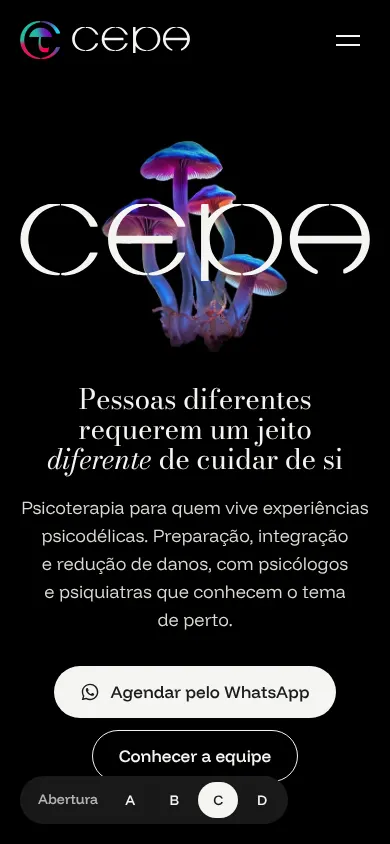
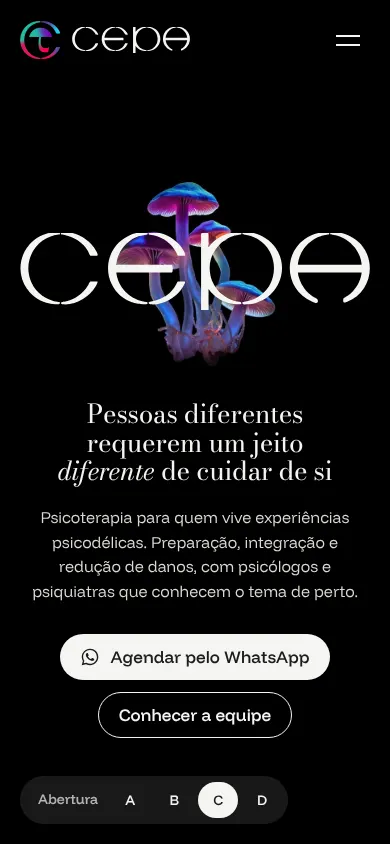
CEPA Vitamina: abertura C cabe na tela e abertura D vira a A em versão clara, com o Sobre escuro
Claude-Session: https://claude.ai/code/session_01FyrvPRAtmUJU3PZbC5bryX

diff --git a/cepa/vitamina/index.html b/cepa/vitamina/index.html
@@ -222,28 +222,30 @@ html:not([data-hero]) .hero-a,html[data-hero=a] .hero-a,html[data-hero=b] .hero-
 .hero-b .lead{color:var(--off)}
 .hero-b .btn-linha:hover{background:rgba(245,245,242,.16)}
 /* C: o key visual do Figma, a palavra cepa sobre os cogumelos */
-.hero-c .wrap{display:flex;flex-direction:column;align-items:center;text-align:center;padding-top:96px;padding-bottom:56px}
-.kv{position:relative;width:min(100%,760px);display:grid;place-items:center;margin-bottom:8px}
-.kv-foto{grid-area:1/1;width:min(44vh,380px);height:auto;aspect-ratio:1;object-fit:contain;-webkit-mask-image:radial-gradient(closest-side,#000 70%,transparent);mask-image:radial-gradient(closest-side,#000 70%,transparent)}
+.hero-c .wrap{display:flex;flex-direction:column;align-items:center;text-align:center;padding-top:88px;padding-bottom:32px}
+.kv{position:relative;width:min(100%,760px,86svh);display:grid;place-items:center;margin-bottom:8px}
+.kv-foto{grid-area:1/1;width:min(35svh,360px);height:auto;aspect-ratio:1;object-fit:contain;-webkit-mask-image:radial-gradient(closest-side,#000 70%,transparent);mask-image:radial-gradient(closest-side,#000 70%,transparent)}
 .kv-palavra{grid-area:1/1;width:100%;height:auto;position:relative;z-index:1}
-.hero-c h1{font-size:clamp(28px,2.6vw,38px);max-width:24ch;margin:0 auto 12px}
-.hero-c .lead{margin:0 auto 24px;max-width:46ch}
+.hero-c h1{font-size:clamp(26px,min(2.6vw,4.4svh),38px);max-width:26ch;margin:4px auto 12px}
+.hero-c .lead{margin:0 auto 22px;max-width:52ch;font-size:clamp(16px,min(1.4vw,2.3svh),19px)}
 .hero-c .acoes{justify-content:center;margin-bottom:0}
-/* D: editorial claro, texto no off-white e o gradiente ao lado */
-.hero-d{background:var(--off);color:var(--preto);display:none;align-items:stretch}
-html[data-hero=d] .hero-d{display:grid;grid-template-columns:minmax(0,1.1fr) minmax(0,.9fr)}
-.d-texto{display:flex;flex-direction:column;justify-content:center;padding:120px clamp(24px,5vw,72px) 64px max(var(--gut),calc((100vw - var(--max))/2 + var(--gut)))}
-.d-texto .eyebrow{color:var(--roxo);margin-bottom:22px}
-.d-texto h1{font-size:clamp(40px,4.4vw,66px);margin-bottom:22px;max-width:14ch}
-.d-texto .lead{color:var(--cinza);font-size:clamp(18px,1.5vw,20px);max-width:38ch;margin-bottom:32px}
-.d-texto .btn-linha:hover{background:rgba(28,28,28,.06)}
-.d-midia{position:relative;overflow:hidden;min-height:100%}
-.d-midia video{position:absolute;inset:0;width:100%;height:100%;object-fit:cover}
-.d-simb{position:absolute;left:50%;top:50%;width:clamp(120px,14vw,200px);height:auto;transform:translate(-50%,-50%);filter:brightness(0) invert(1)}
-html[data-hero=d] .topo:not(.solido){color:var(--preto)}
-html[data-hero=d] .topo:not(.solido) .palavra-branca{display:none}
-html[data-hero=d] .topo:not(.solido) .palavra-preta{display:block}
+@media (max-height:760px) and (min-width:861px){.hero-c .wrap{padding-top:80px;padding-bottom:12px}.hero-c .lead{margin-bottom:16px}}
+/* D: a A em versão clara, com os cogumelos recortados */
+.hero-d{background:var(--off);color:var(--preto)}
+.hero-d .eyebrow{color:var(--roxo)}
+.hero-d .lead{color:var(--cinza)}
+.hero-d .visual img{-webkit-mask-image:none;mask-image:none}
+.hero-d .visual::after{background:radial-gradient(closest-side,rgba(120,69,155,.22),rgba(216,27,97,.10) 60%,transparent)}
+.hero-d .btn-linha:hover{background:rgba(28,28,28,.06)}
+html[data-hero=d] .topo:not(.solido):not(.aberto){color:var(--preto)}
+html[data-hero=d] .topo:not(.solido):not(.aberto) .palavra-branca{display:none}
+html[data-hero=d] .topo:not(.solido):not(.aberto) .palavra-preta{display:block}
 html[data-hero=d] .topo:not(.solido) .menu .btn{background:var(--preto);color:var(--off)}
+/* ritmo de cor na D: com a abertura clara, o Sobre vira escuro */
+html[data-hero=d] #sobre{background:var(--preto);color:var(--off)}
+html[data-hero=d] #sobre .eyebrow{color:#C9A6F2}
+html[data-hero=d] #sobre .texto p{color:#DCDAD4}
+html[data-hero=d] #sobre .texto p:first-child{color:var(--off)}
 /* seletor de abertura, só aparece com ?abertura= na URL */
 .seletor{position:fixed;left:max(20px,env(safe-area-inset-left));bottom:max(20px,env(safe-area-inset-bottom));z-index:30;display:none;gap:4px;padding:6px;border-radius:999px;background:rgba(28,28,28,.9);backdrop-filter:blur(8px);-webkit-backdrop-filter:blur(8px);font:500 14px/1 var(--sans);color:var(--off)}
 html[data-seletor] .seletor{display:flex}
@@ -252,16 +254,11 @@ html[data-seletor] .seletor{display:flex}
 .seletor a[aria-current]{background:var(--off);color:var(--preto)}
 @media (max-width:860px){
   .hero-b .wrap{padding-top:120px}
-  html[data-hero=d] .hero-d{grid-template-columns:1fr}
-  .d-midia{order:-1;min-height:42svh}
-  .d-texto{padding:40px var(--gut) 56px}
-  html[data-hero=d] .topo:not(.solido):not(.aberto){color:var(--off)}
-  html[data-hero=d] .topo:not(.solido):not(.aberto) .palavra-branca{display:block}
-  html[data-hero=d] .topo:not(.solido):not(.aberto) .palavra-preta{display:none}
-  .kv-foto{width:min(64vw,300px)}
-  .hero-c .wrap{padding-top:112px}
+  .kv-foto{width:min(56vw,28svh,260px)}
+  .hero-c .wrap{padding-top:88px}
+  .hero-c .acoes .btn{min-height:46px;padding:12px 20px}
 }
-@media (prefers-reduced-motion:reduce){.hero-b .hero-fundo,.d-midia video{display:none}.hero-b{background:url(/cepa/vitamina/img/gradiente.jpg) center/cover}.d-midia{background:url(/cepa/vitamina/img/gradiente.jpg) center/cover}}
+@media (prefers-reduced-motion:reduce){.hero-b .hero-fundo{display:none}.hero-b{background:url(/cepa/vitamina/img/gradiente.jpg) center/cover}}
 </style>
 <script>
   (function(){var q=new URLSearchParams(location.search).get("abertura");if(q&&/^[abcd]$/.test(q)){document.documentElement.dataset.hero=q;document.documentElement.dataset.seletor="";}})();
@@ -339,18 +336,19 @@ html[data-seletor] .seletor{display:flex}
   </section>
 
   <section class="hero hero-d" aria-labelledby="h-hero-d">
-    <div class="d-texto">
-      <p class="eyebrow">Centro de Estudos de Psicodelia Aplicada</p>
-      <h1 id="h-hero-d">Pessoas diferentes requerem um jeito <em>diferente</em> de cuidar de si</h1>
-      <p class="lead">Psicoterapia para quem vive experiências psicodélicas. Preparação, integração e redução de danos, com psicólogos e psiquiatras que conhecem o tema de perto.</p>
-      <div class="acoes">
+    <div class="wrap">
+      <div>
+        <p class="eyebrow">Centro de Estudos de Psicodelia Aplicada</p>
+        <h1 id="h-hero-d">Pessoas diferentes requerem um jeito <em>diferente</em> de cuidar de si</h1>
+        <p class="lead">Psicoterapia para quem vive experiências psicodélicas. Preparação, integração e redução de danos, com psicólogos e psiquiatras que conhecem o tema de perto.</p>
+        <div class="acoes">
           <a class="btn btn-escuro" data-zap href="https://wa.me/5511920005742?text=Ol%C3%A1!%20Vim%20pelo%20site%20do%20CEPA%20e%20gostaria%20de%20saber%20mais%20sobre%20o%20atendimento." target="_blank" rel="noopener"><svg viewBox="0 0 96 96" fill="currentColor" aria-hidden="true"><path d="M76.2 19.64A39.4 39.4 0 0 0 48.16 8C26.32 8 8.52 25.8 8.52 47.64c0 7 1.84 13.8 5.28 19.8L8.2 88l21-5.52a39.6 39.6 0 0 0 18.96 4.84c21.84 0 39.64-17.8 39.64-39.64 0-10.6-4.12-20.56-11.6-28.04ZM48.16 80.6c-5.92 0-11.72-1.6-16.8-4.6l-1.2-.72-12.48 3.28L21 66.4l-.8-1.24a32.8 32.8 0 0 1-5.04-17.52c0-18.16 14.8-32.96 32.96-32.96 8.8 0 17.08 3.44 23.28 9.68a32.7 32.7 0 0 1 9.64 23.32c.08 18.16-14.72 32.92-32.88 32.92Zm18.08-24.64c-1-.48-5.88-2.88-6.76-3.24-.92-.32-1.56-.48-2.24.48-.68 1-2.56 3.24-3.12 3.88-.56.68-1.16.76-2.16.24-1-.48-4.2-1.56-7.96-4.92-2.96-2.64-4.92-5.88-5.52-6.88-.56-1-.08-1.52.44-2.04.44-.44 1-1.16 1.48-1.72.48-.56.68-1 1-1.64.32-.68.16-1.24-.08-1.72-.24-.48-2.24-5.36-3.04-7.36-.8-1.92-1.64-1.68-2.24-1.72h-1.92c-.68 0-1.72.24-2.64 1.24-.88 1-3.44 3.4-3.44 8.28s3.56 9.6 4.04 10.24c.48.68 7 10.68 16.92 14.96 2.36 1.04 4.2 1.64 5.64 2.08 2.36.76 4.52.64 6.24.4 1.92-.28 5.88-2.4 6.68-4.72.84-2.32.84-4.28.56-4.72-.28-.44-.88-.64-1.88-1.12Z"/></svg>Agendar pelo WhatsApp</a>
           <a class="btn btn-linha" href="#equipe">Conhecer a equipe</a>
+        </div>
       </div>
-    </div>
-    <div class="d-midia">
-      <video autoplay muted loop playsinline poster="/cepa/vitamina/img/gradiente.jpg" aria-hidden="true"><source src="/cepa/vitamina/img/cepa-bg.mp4" type="video/mp4"></video>
-      <img src="/cepa/vitamina/img/cepa-icone.png" alt="" width="160" height="150" class="d-simb">
+      <div class="visual">
+        <img src="/cepa/vitamina/img/cogumelos-recorte-720.webp" srcset="/cepa/vitamina/img/cogumelos-recorte-720.webp 720w, /cepa/vitamina/img/cogumelos-recorte.webp 1080w" sizes="(max-width:860px) 52vw, 46vw" alt="" width="720" height="720">
+      </div>
     </div>
   </section>
 

diff --git a/cepa/index.html b/cepa/index.html
@@ -456,7 +456,7 @@ a:hover{text-decoration-thickness:2px}
         <div class="change__text">
           <p class="num">Abertura C</p>
           <h3>O key visual inteiro</h3>
-          <p>A palavra “cepa” grande sobre os cogumelos, como nos key visuals do Figma. A marca vem primeiro e o título fica embaixo, centralizado. É a mais forte como marca.</p>
+          <p>A palavra “cepa” grande sobre os cogumelos, como nos key visuals do Figma. A marca vem primeiro e o título fica embaixo, centralizado, tudo dentro da primeira tela. É a mais forte como marca.</p>
           <a class="open" href="/cepa/vitamina/?abertura=c" target="_blank" rel="noopener">Ver a abertura C no site <span class="arw" aria-hidden="true"></span></a>
         </div>
         <div class="change__pair">
@@ -467,8 +467,8 @@ a:hover{text-decoration-thickness:2px}
       <div class="change grid">
         <div class="change__text">
           <p class="num">Abertura D</p>
-          <h3>Editorial claro</h3>
-          <p>Texto em Bodoni sobre o off-white e o gradiente com o símbolo ao lado. É a mais leve e a que tem mais cara de consultório.</p>
+          <h3>Cogumelos no claro</h3>
+          <p>A mesma composição da A, no off-white, com os cogumelos recortados. Pra a página não ficar clara demais, nesta versão o “Sobre” logo abaixo vira escuro, e o site continua alternando claro e escuro até o fim.</p>
           <a class="open" href="/cepa/vitamina/?abertura=d" target="_blank" rel="noopener">Ver a abertura D no site <span class="arw" aria-hidden="true"></span></a>
         </div>
         <div class="change__pair">
